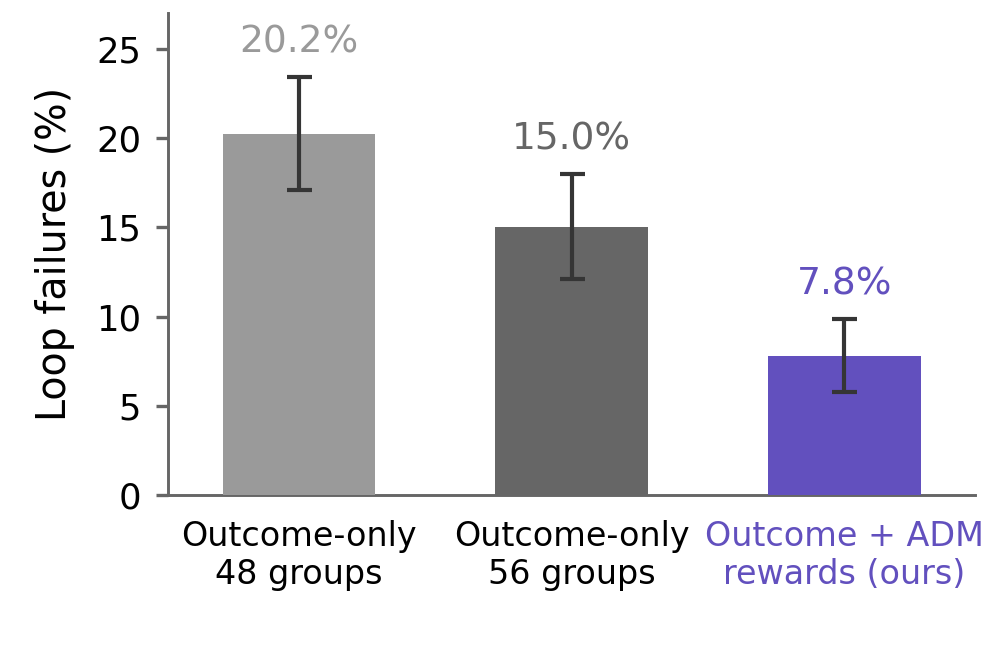
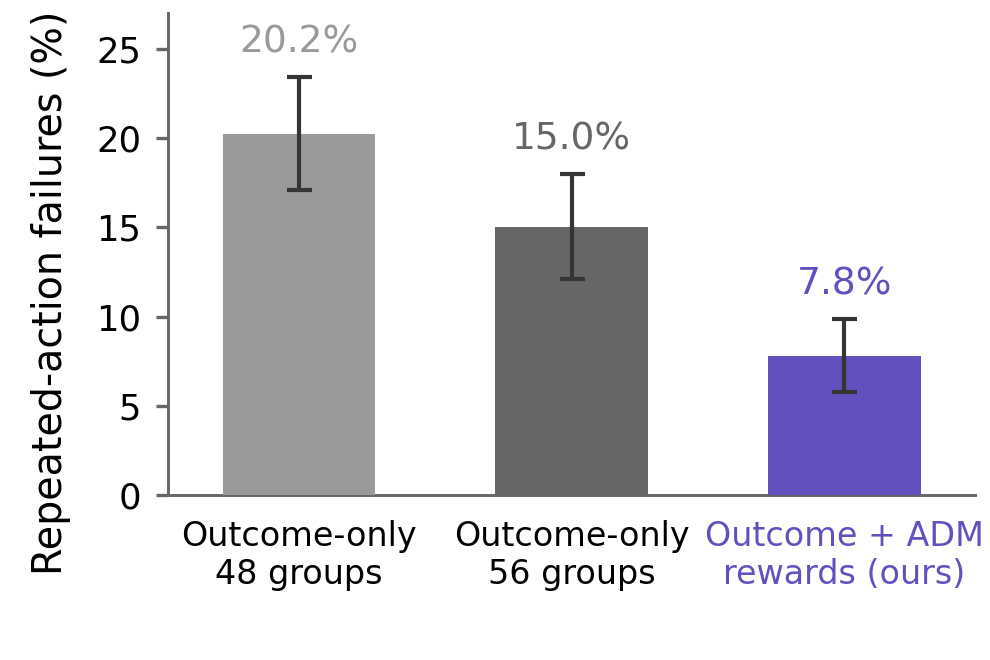
Name repeated-action failure rate and document exact classification and denominator

Changed region(s): [[0.0303, 0.0, 0.0909, 0.8788]]

diff --git a/openwebrl/docs/arm_results/rl_integration/behavior/plot_rl_loops_iter90_bars_preview.py b/openwebrl/docs/arm_results/rl_integration/behavior/plot_rl_loops_iter90_bars_preview.py
@@ -57,7 +57,8 @@ def render():
     ax.set_xticks(np.arange(3), [label for _, label, _ in RUNS], fontsize=8)
     ax.get_xticklabels()[-1].set_color(RUNS[-1][2])
     ax.get_xticklabels()[-1].set_fontweight("medium")
-    ax.set_ylabel("Loop failures (%)", fontsize=9.5, labelpad=5)
+    ax.set_ylabel("Repeated-action failures (%)", fontsize=9.5, labelpad=5)
+    ax.yaxis.set_label_coords(-0.12, 0.42)
     ax.set_ylim(0, 27)
     ax.set_yticks([0, 5, 10, 15, 20, 25])
     ax.set_xlim(-0.48, 2.48)

diff --git a/openwebrl/docs/RL_BEHAVIOR.md b/openwebrl/docs/RL_BEHAVIOR.md
@@ -263,11 +263,23 @@ same trajectory; 95% binomial intervals; chance = 20%.* [PDF](rl_results/rl_acti
 
 <details><summary>Alternative paper view: vertical bars as percentages of planned tasks</summary>
 
-![Iteration-90 loop-failure percentages with 95% task-bootstrap intervals: outcome-only baselines in gray and Outcome + ADM rewards in purple](rl_results/rl_action_loops_iter90_bars_preview.png)
+![Iteration-90 repeated-action failure percentages with 95% task-bootstrap intervals: outcome-only baselines in gray and Outcome + ADM rewards in purple](rl_results/rl_action_loops_iter90_bars_preview.png)
 
-*Bars = mean percentage of all 300 planned OM2W tasks classified as loop failures across three evaluation repeats: 20.2%, 15.0% and 7.8%. Error bars are the same 95% task-bootstrap intervals as above, converted from counts to percentages by dividing by 3. Invalid outcomes remain in the planned-task denominator; this is distinct from the fraction of valid episodes containing any loop. Intervals condition on the fixed checkpoints and evaluation windows.* [PDF](rl_results/rl_action_loops_iter90_bars_preview.pdf) · [SVG](rl_results/rl_action_loops_iter90_bars_preview.svg) · [Source](arm_results/rl_integration/behavior/plot_rl_loops_iter90_bars_preview.py).
+*Bars = repeated-action failures as a percentage of all 300 planned OM2W tasks, averaged across three evaluation repeats: 20.2%, 15.0% and 7.8%. Error bars are the same 95% task-bootstrap intervals as above, converted from counts to percentages by dividing by 3. Invalid outcomes remain in the planned-task denominator; this is distinct from the fraction of valid episodes containing any loop. Intervals condition on the fixed checkpoints and evaluation windows.* [PDF](rl_results/rl_action_loops_iter90_bars_preview.pdf) · [SVG](rl_results/rl_action_loops_iter90_bars_preview.svg) · [Source](arm_results/rl_integration/behavior/plot_rl_loops_iter90_bars_preview.py).
 
 </details>
+
+<a id="rl-repeated-action-failure-metric"></a>
+
+**Metric definition: repeated-action failures (%).** An episode contributes one failure if and only if all three conditions hold:
+
+1. Its saved outcome is **valid and unsuccessful**.
+2. Its recorded tool-call sequence **contains a `done` call**. Episodes without `done` are classified as turn-limit or other termination failures before repetition is checked.
+3. At least one identical tool call, excluding `wait` and `done`, appears **three or more times** in that episode. Occurrences need not be consecutive; each episode counts at most once.
+
+The plotted percentage is `100 × matching episodes / (3 × 300)`: **300 unique planned tasks evaluated three times, totaling 900 task episodes per checkpoint**. Successful, invalid and no-`done` episodes remain in the denominator and contribute zero to this numerator. For example, Outcome + ADM rewards has `(20 + 23 + 27) / 900 × 100 = 7.78%`. This is the existing `repeat_loop` failure category expressed as a percentage of planned episodes; category membership does not establish that repetition caused the failure.
+
+Pointwise 95% intervals use 20,000 percentile-bootstrap draws (seed 20261104) over the **300 task clusters**, keeping all three repeats and all compared methods together for every sampled task. They condition on the fixed checkpoints and evaluation windows. Exact tool-call matching and extraction details are in [Method and sources](#rl-repetition-matching-rules).
 
 | Run | Loop failures, r1 / r2 / r3 | Mean loop failures | Mean 95% CI | Loop rate, mean % | Successes, r1 / r2 / r3 |
 | --- | ---: | ---: | ---: | ---: | ---: |
@@ -348,9 +360,12 @@ low end of the outcome-only range, not clearly below all of it.
   pruned. Checkpoints are fixed, so the intervals cover task and evaluation noise, not
   training seeds.
 
+<a id="rl-repetition-matching-rules"></a>
 <details>
 <summary>Method and sources</summary>
 
+- **Exact matching:** the compact extractor retains the first `<tool_call>` capture in each saved actor turn, parsed as JSON; a malformed capture is retained as an `unparsable` pseudo-call with its first 200 raw characters. Calls are compared using `json.dumps(call, sort_keys=True)`, including the tool name and arguments (and any other saved call fields). Object-key ordering is ignored; argument strings, values and URLs are otherwise unnormalized. Additional tool calls in the same actor response are not inspected by this metric.
+- **Failure-rule precedence:** success → invalid → no `done` (`turn_limit` or `no_done_other`) → `repeat_loop` → infeasibility/tool-error/other failure categories. Thus repetition is checked only after the first three exclusions; it takes precedence over the later failure categories. The percentage plot uses this category, while the broader loop-episode metric below also includes successes.
 - **Loop episode:** a valid episode in which one identical first tool call (name and
   arguments) is issued ≥ 3 times, ignoring `wait` and `done`.
 - **Loop failure:** the first-match `repeat_loop` category of the

diff --git a/openwebrl/docs/README.md b/openwebrl/docs/README.md
@@ -47,7 +47,7 @@
 
 [OM2W-only BrowserCode versus native CUAWright: 300 attempted tasks per cell, valid-only success with explicit valid denominators and metric coverage](ARM_FINAL_RESULTS.md#om2w-browsercode-native-cuawright-20261027).
 
-[Repeated-action loop failures at iteration 90: compact means and 95% task-bootstrap intervals; Outcome + ADM rewards in purple](RL_BEHAVIOR.md#rl-behavior-loops-20261103) · [Paper PDF](rl_results/rl_action_loops_iter90.pdf). [Vertical percentage-bar preview](RL_BEHAVIOR.md#rl-behavior-loops-percentage-bars).
+[Repeated-action loop failures at iteration 90: compact means and 95% task-bootstrap intervals; Outcome + ADM rewards in purple](RL_BEHAVIOR.md#rl-behavior-loops-20261103) · [Paper PDF](rl_results/rl_action_loops_iter90.pdf). [Repeated-action failure percentage bars and precise metric definition](RL_BEHAVIOR.md#rl-repeated-action-failure-metric).
 
 [Teacher and student ADM: compact Pre-exec, Post-exec, H = 3 and Oracle comparison, offline and online (task-weighted average; PDF)](arm_results/rl_integration/selection-label-setups-kfold-20261101.pdf) · [Results and caption](ARM_FINAL_RESULTS.md#final-selection-label-kfold-20261101).
 
